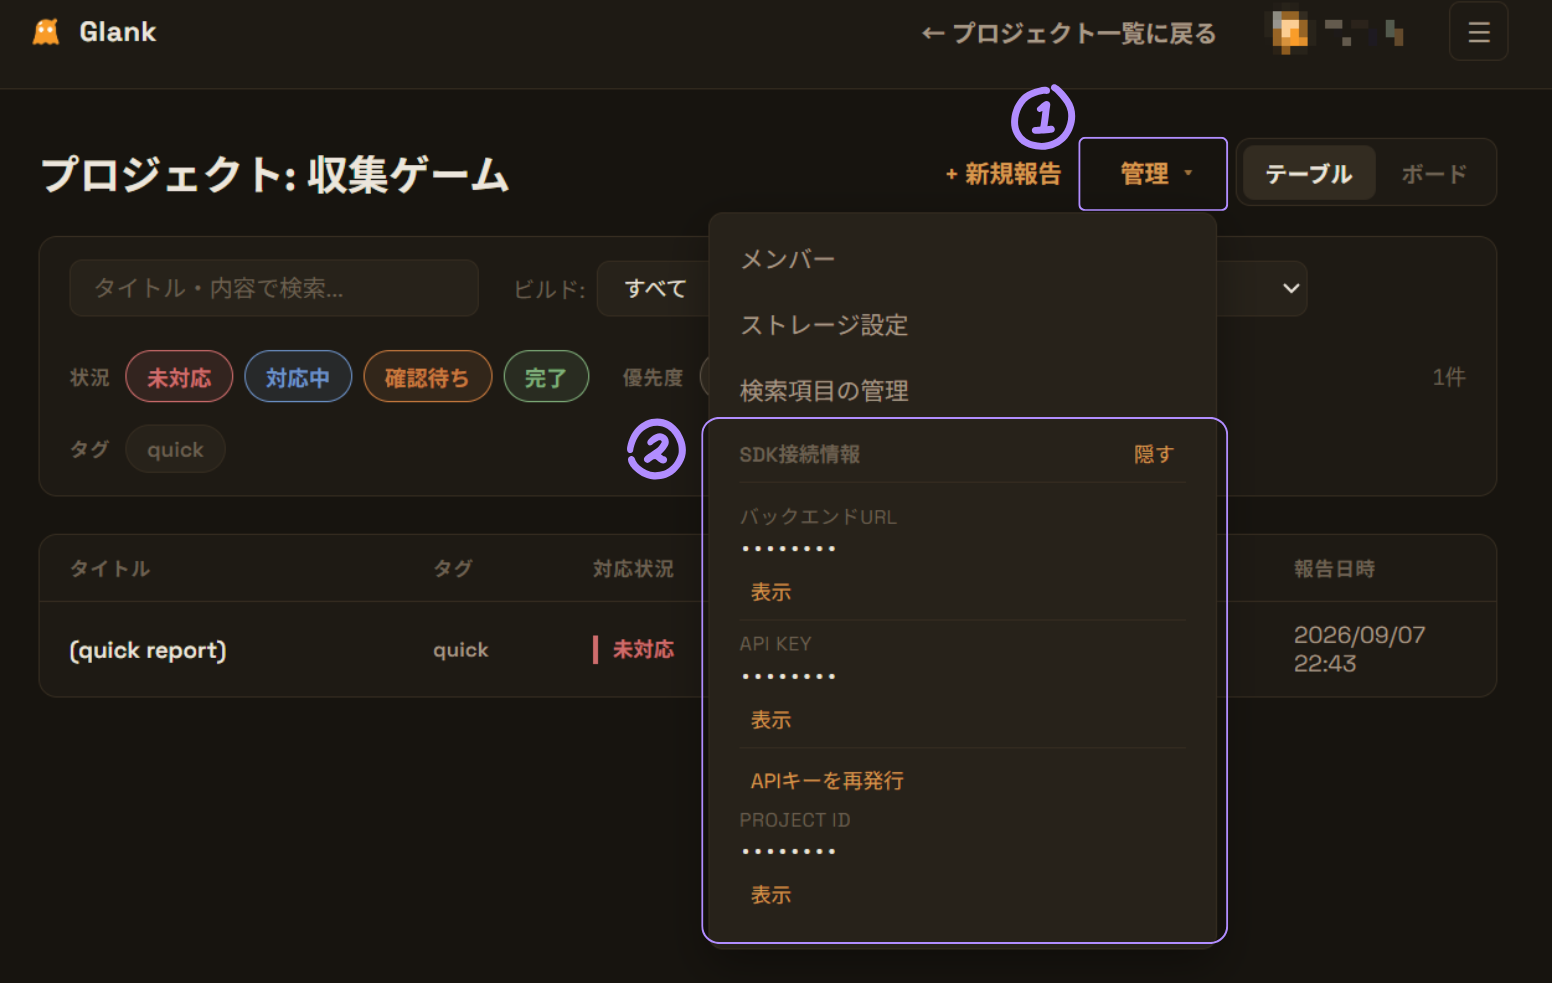
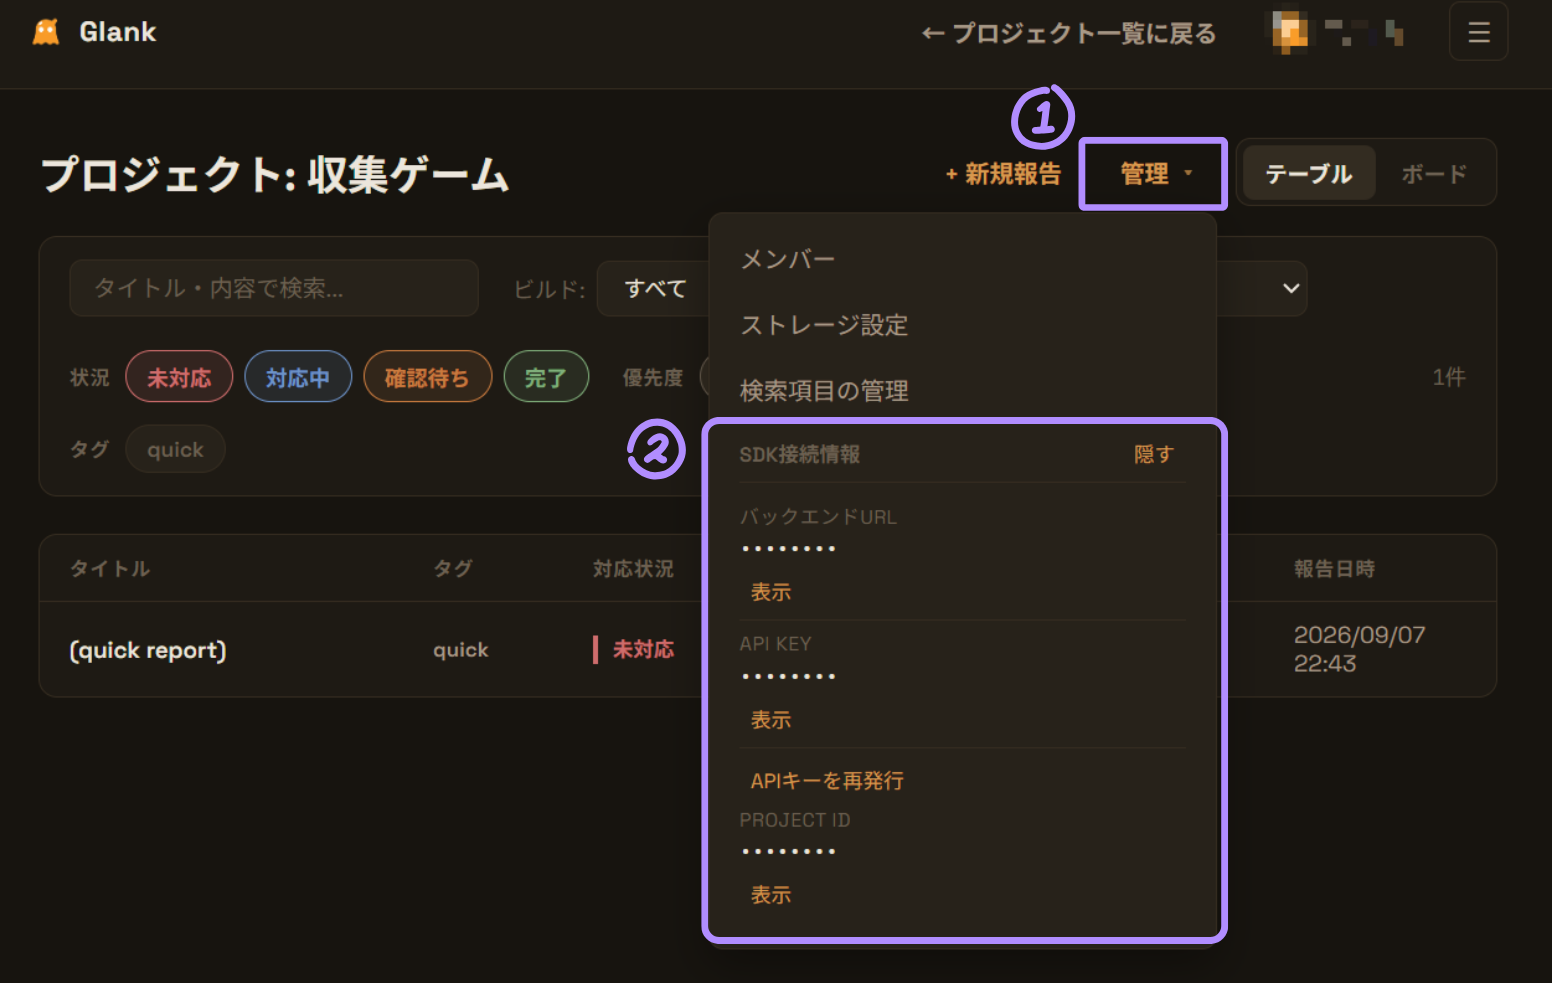
「カスタマイズしたい場合」を削除し、各コンポーネントの役割と設定項目の一覧に置き換え
プレハブ/手動配置はSetup Wizardと大差が無いため削除。代わりに、GlankSettings・
BugReportTrigger・CrashDetector・FreezeWatchdog・GlankOfflineQueue・InputLogRecorder・
GlankReporterNamePromptそれぞれの主な設定項目と役割（reportHotkeyを変えると送信キーが
変わる、等）を一覧化した新しいステップを追加した。

Changed region(s): [[0.4327, 0.4273, 0.8036, 0.9766], [0.68, 0.1221, 0.8036, 0.2136]]

diff --git a/src/pages/HelpPage.jsx b/src/pages/HelpPage.jsx
@@ -73,76 +73,6 @@ function UnityGuide() {
           alt="Setup Wizardのウィンドウ（Tools &gt; Glank &gt; Setup Wizard、API Key / Project ID入力欄とセットアップボタン）"
           className="help-screenshot"
         />
-
-        <details className="help-advanced-details">
-          <summary>カスタマイズしたい場合</summary>
-
-          <h3 className="help-substep-title">プレハブをドラッグ&ドロップする</h3>
-          <p>
-            ウィザードを使わず導入したい場合は、SDKに同梱されている
-            <span className="mono">Packages/Glank/Runtime/Prefabs/GlankManager.prefab</span>
-            （Setup Wizardと同じ構成が組まれたプレハブ）をシーンにドラッグ&ドロップします。
-          </p>
-          <p>
-            ただし、このプレハブが参照している<span className="mono">GlankSettings</span>は
-            <strong>APIキー・プロジェクトIDが空のプレースホルダー</strong>です。
-            プレースホルダーのアセットを右クリック→複製し、複製した方に自分のAPIキー・
-            プロジェクトIDを入力してください。
-          </p>
-          <p>
-            そのうえで、<strong>シーンに置いたインスタンス側</strong>の
-            <span className="mono">BugReportTrigger</span>・<span className="mono">CrashDetector</span>・
-            <span className="mono">FreezeWatchdog</span>・<span className="mono">GlankOfflineQueue</span>
-            それぞれの<span className="mono">Config</span>欄を、複製したアセットに差し替えてください
-            （プレハブアセット自体を直接編集しないよう注意）。
-          </p>
-          <p>
-            設定を入力し忘れたまま実行すると、「projectIdが未設定です」という分かりやすいエラーが
-            Consoleに出て送信が中止されるので、実際の値が入っているかどうかはすぐに気付けます。
-          </p>
-
-          <h3 className="help-substep-title">手動でコンポーネントを配置する</h3>
-          <p>
-            細かくカスタマイズしたい場合向けの、従来通りの方法です。Unityのメニューから
-            <span className="mono">Assets &gt; Create &gt; Glank &gt; Settings</span>で
-            ScriptableObjectを作成し、次の3項目を設定します。
-          </p>
-          <table className="help-table">
-            <tbody>
-              <tr>
-                <td className="mono">baseUrl</td>
-                <td>
-                  このアプリのAPIサーバーのURL。既定値が本番URLなので、自前で別環境
-                  （ステージング・自前デプロイ等）を使う場合以外は変更不要
-                </td>
-              </tr>
-              <tr>
-                <td className="mono">apiKey</td>
-                <td>
-                  このプロジェクト専用のAPIキー。プロジェクトを開いた画面の「管理」メニューの
-                  「SDK接続情報を表示」で確認できる（プロジェクトごとに別の値が発行されるため、
-                  他のプロジェクトのキーは使えない）
-                </td>
-              </tr>
-              <tr>
-                <td className="mono">projectId</td>
-                <td>手順1で確認したプロジェクトID</td>
-              </tr>
-            </tbody>
-          </table>
-          <p>
-            続けて、シーン内の任意のGameObjectに<span className="mono">InputLogRecorder</span>と
-            <span className="mono">BugReportTrigger</span>の2つをアタッチします。
-          </p>
-          <p>
-            <span className="mono">BugReportTrigger</span>の<span className="mono">config</span>欄に、
-            上で作った設定を割り当ててください。
-          </p>
-          <p>
-            <span className="mono">InputLogRecorder</span>の<span className="mono">watchedKeys</span>には、
-            ログに残したい入力キーを登録します。
-          </p>
-        </details>
       </li>
 
       <li>
@@ -206,6 +136,158 @@ function UnityGuide() {
           分からないため、覚えておいてください）。キーは<span className="mono">GlankReporterNamePrompt</span>
           の<span className="mono">reopenHotkey</span>で変更できます。
         </p>
+      </li>
+
+      <li>
+        <h2>7. 各コンポーネントの役割と設定項目</h2>
+        <p>
+          Setup Wizardが配置する<span className="mono">GlankManager</span>には、
+          役割の異なるコンポーネントがまとめてアタッチされています。動作を変更したい場合は、
+          対応するコンポーネントのInspectorで下記の項目を編集してください。
+        </p>
+
+        <h3 className="help-substep-title">
+          <span className="mono">GlankSettings</span>（接続設定）
+        </h3>
+        <table className="help-table">
+          <tbody>
+            <tr>
+              <td className="mono">baseUrl</td>
+              <td>接続先のバックエンドURL。既定値は本番URLで、通常は変更不要</td>
+            </tr>
+            <tr>
+              <td className="mono">apiKey / projectId</td>
+              <td>プロジェクトを開いた画面の「管理」メニューの「SDK接続情報を表示」で確認できる</td>
+            </tr>
+            <tr>
+              <td className="mono">autoDetectionEnabled</td>
+              <td>
+                下記<span className="mono">CrashDetector</span>・
+                <span className="mono">FreezeWatchdog</span>による自動検知/自動報告のON/OFF。既定OFF
+              </td>
+            </tr>
+          </tbody>
+        </table>
+
+        <h3 className="help-substep-title">
+          <span className="mono">BugReportTrigger</span>（ホットキーでの報告送信）
+        </h3>
+        <table className="help-table">
+          <tbody>
+            <tr>
+              <td className="mono">reportHotkey</td>
+              <td>バグ報告を送信するときに押すキー。既定は<span className="mono">F12</span></td>
+            </tr>
+            <tr>
+              <td className="mono">promptUI</td>
+              <td>
+                設定すると、ホットキーを押した際に仮タイトルで即送信する代わりに、
+                <span className="mono">GlankReportPromptUI</span>のフォームを開くようになる
+              </td>
+            </tr>
+            <tr>
+              <td className="mono">offlineQueue</td>
+              <td>
+                設定すると、送信に失敗した報告を<span className="mono">GlankOfflineQueue</span>が
+                自動で退避・再送する
+              </td>
+            </tr>
+          </tbody>
+        </table>
+
+        <h3 className="help-substep-title">
+          <span className="mono">CrashDetector</span>（クラッシュの自動検知）
+        </h3>
+        <p>
+          <span className="mono">GlankSettings.autoDetectionEnabled</span>がONの間だけ動作する
+          （既定OFF）。
+        </p>
+        <table className="help-table">
+          <tbody>
+            <tr>
+              <td className="mono">treatAllErrorsAsFatal</td>
+              <td>
+                通常はUnityの未処理例外だけを検知するが、ONにすると<span className="mono">
+                Debug.LogError</span>等のエラーログもすべて致命的として自動報告する。既定OFF
+              </td>
+            </tr>
+            <tr>
+              <td className="mono">cooldownSeconds</td>
+              <td>連続クラッシュで自動報告が乱発しないための最短間隔（秒）。既定30秒</td>
+            </tr>
+          </tbody>
+        </table>
+
+        <h3 className="help-substep-title">
+          <span className="mono">FreezeWatchdog</span>（フリーズの自動検知）
+        </h3>
+        <p>
+          こちらも<span className="mono">autoDetectionEnabled</span>がONの間だけ動作する。
+        </p>
+        <table className="help-table">
+          <tbody>
+            <tr>
+              <td className="mono">freezeThresholdSeconds</td>
+              <td>この秒数フレームが進まなかったらフリーズとみなす。既定10秒</td>
+            </tr>
+            <tr>
+              <td className="mono">pollIntervalSeconds</td>
+              <td>フリーズを監視する間隔（秒）。既定1秒</td>
+            </tr>
+            <tr>
+              <td className="mono">cooldownSeconds</td>
+              <td>連続フリーズで自動報告が乱発しないための最短間隔（秒）。既定60秒</td>
+            </tr>
+          </tbody>
+        </table>
+
+        <h3 className="help-substep-title">
+          <span className="mono">GlankOfflineQueue</span>（送信失敗時の再送）
+        </h3>
+        <table className="help-table">
+          <tbody>
+            <tr>
+              <td className="mono">retryIntervalSeconds</td>
+              <td>送信に失敗した報告の再送を試みる間隔（秒）。既定60秒</td>
+            </tr>
+          </tbody>
+        </table>
+
+        <h3 className="help-substep-title">
+          <span className="mono">InputLogRecorder</span>（入力ログの記録）
+        </h3>
+        <table className="help-table">
+          <tbody>
+            <tr>
+              <td className="mono">watchedKeys</td>
+              <td>入力ログに残したいキーの一覧（キー・表示グリフ・ラベル）</td>
+            </tr>
+            <tr>
+              <td className="mono">bufferSeconds</td>
+              <td>何秒分の入力履歴を保持するか。既定10秒</td>
+            </tr>
+          </tbody>
+        </table>
+
+        <h3 className="help-substep-title">
+          <span className="mono">GlankReporterNamePrompt</span>（報告者名の入力欄）
+        </h3>
+        <table className="help-table">
+          <tbody>
+            <tr>
+              <td className="mono">showOnStartIfUnset</td>
+              <td>報告者名が未設定の間、ゲーム起動時に自動で入力欄を表示するかどうか。既定ON</td>
+            </tr>
+            <tr>
+              <td className="mono">reopenHotkey</td>
+              <td>入力欄をいつでも開き直せるキー。既定は<span className="mono">F9</span></td>
+            </tr>
+            <tr>
+              <td className="mono">pauseGameWhileOpen</td>
+              <td>入力欄が開いている間、<span className="mono">Time.timeScale</span>を0にするかどうか。既定ON</td>
+            </tr>
+          </tbody>
+        </table>
       </li>
     </ol>
   )

diff --git a/src/styles.css b/src/styles.css
@@ -753,24 +753,6 @@ body {
   color: var(--text);
   margin: 0 0 8px;
 }
-.help-advanced-details {
-  margin-top: 20px;
-  padding-top: 4px;
-  border-top: 1px dashed var(--border);
-}
-.help-advanced-details summary {
-  cursor: pointer;
-  font-size: 13px;
-  font-weight: 600;
-  color: var(--text-dim);
-  padding: 10px 0;
-}
-.help-advanced-details[open] summary {
-  color: var(--text);
-}
-.help-advanced-details > *:not(summary) {
-  margin-left: 2px;
-}
 .help-steps li > * + * {
   margin-top: 12px;
 }
